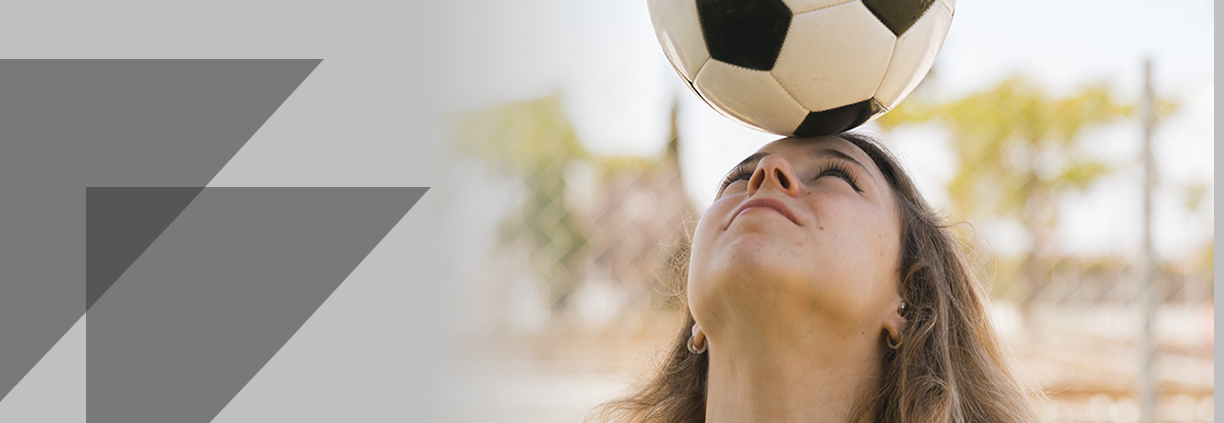
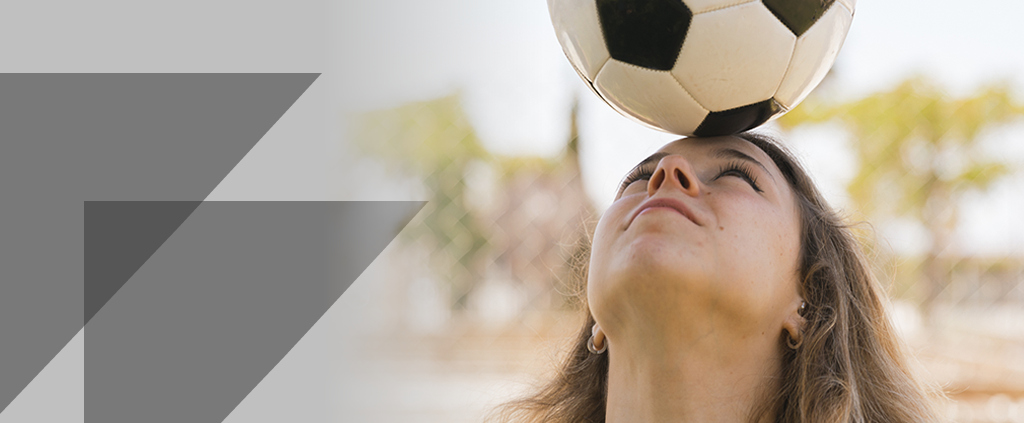
actualizacion general

diff --git a/src/components/common/Result.jsx b/src/components/common/Result.jsx
@@ -41,51 +41,27 @@ const Result = ({ id, name, teams_count, logo, status }) => {
 					l: 6,
 					gl: 4,
 				},
-				{
-					id: 2,
-					name: 'Real Madrid',
-					logo: 'images/realmadrid.svg',
-					ta: 0,
-					tr: 3,
-					l: 7,
-					gl: 2,
-				},
-				{
-					id: 3,
-					name: 'Barcelona',
-					logo: 'images/barcelona.svg',
-					ta: 0,
-					tr: 4,
-					l: 9,
-					gl: 1,
-				},
-				{
-					id: 4,
-					name: 'Villarreal',
-					logo: 'images/villareal.svg',
-					ta: 0,
-					tr: 2,
-					l: 10,
-					gl: 0,
-				},
+		
 			]
 
     const trunName = name.slice(0, 18);
 
+    console.log("torneos",  allTeamsTournament)
+
   return (
-    <div className='py-1 w-full sm:w-[90%] md:w-[45%] px-1 bg-secondary rounded-3xl mb-4 m-2'>
+    <div className='py-5 w-full px-5 sm:w-[90%] md:w-[70%] lg:px-10 bg-secondary rounded-3xl mb-4 m-2 mt-8'>
       {/* Title */}
-      <div className='flex items-center justify-between pt-3 '>
+      <div className='flex items-center justify-between pt-31 py-2'>
        <div className='flex pl-2'>
-        <div className='rounded-full bg-neutral w-[40px] h-[40px] ml-1.5 flex justify-center items-center'>
-          {/* Si el logo del torneo es dinámico,  se puede establecer su src como 'tournamentData.logo' */}
-          <img
-            src={logo==null||logo==''?'icons/trophy.png':logo}
-            alt='Torneo A Logo'
-            className={`${logo == null || logo == '' ? 'w-[25px] h-[25px]' : 'p-0.5 w-[40px] h-[40px] rounded-full'}`}
-          />
-        </div>
-        <h1 className='text-lg font-Sans Pro truncate ml-4'>{trunName}</h1>
+          <div className='rounded-full bg-neutral w-[40px] h-[40px] ml-1.5 flex justify-center items-center'>
+            {/* Si el logo del torneo es dinámico,  se puede establecer su src como 'tournamentData.logo' */}
+            <img
+              src={logo==null||logo==''?'icons/trophy.png':logo}
+              alt='Torneo A Logo'
+              className={`${logo == null || logo == '' ? 'w-[25px] h-[25px]' : 'p-0.5 w-[40px] h-[40px] rounded-full'}`}
+            />
+          </div>
+          <h1 className='text-lg font-Sans Pro truncate ml-4 py-2'>{trunName}</h1>
         </div>
         <p className='text-warning  font-SourceSansPro text-[14px] mt-2 ml-10 pr-2'>
           {startDate}
@@ -96,8 +72,8 @@ const Result = ({ id, name, teams_count, logo, status }) => {
         {/* Table Header */}
         <thead>
           <tr className='text-base-100 text-left'>
-            <th className='p-1.5'>#</th>
-            <th className='p-1.5'>Equipos</th>
+            <th className='p-1.5'></th>
+            <th className='p-1.5'>EQUIPOS</th>
             <th className='p-1.5 border-b border-primary'>TA</th>
             <th className='p-1.5 border-b border-primary'>TR</th>
             <th className='p-1.5 border-b border-primary'>L</th>
@@ -113,13 +89,13 @@ const Result = ({ id, name, teams_count, logo, status }) => {
               <td className='flex flex-row space-x-2 p-1.5 pr-8'>
                 {/* Si los logos de los equipos son dinámicos, puedes establecer su src como 'team.logo' */}
                 <div className='rounded-full bg-neutral w-[40px] h-[40px] ml-1 flex justify-center items-center'>
-				<img
-					className={`${team.logo_url == null || team.logo_url == '' ? 'w-[25px] h-[25px]' : 'p-0.5 w-[40px] h-[40px] rounded-full'}`}
-					src={team.logo_url == null || team.logo_url == '' ? 'icons/trophy.png' : team.logo_url}
-					alt='Real Madrid'
-				/>
-			</div>
-                <div>{team.name}</div>
+                  <img
+                    className={`${team.logo_url == null || team.logo_url == '' ? 'w-[25px] h-[25px]' : 'p-0.5 w-[40px] h-[40px] rounded-full'}`}
+                    src={team.logo_url == null || team.logo_url == '' ? 'icons/trophy.png' : team.logo_url}
+                    alt='Real Madrid'
+                  />
+                  </div>
+                <div className="py-2">{team.name}</div>
               </td>
               <td className='p-1.5 border-b border-primary'>{teams[0].ta}</td>
               <td className='p-1.5 border-b border-primary'>{teams[0].tr}</td>

diff --git a/src/components/modal/Activity.jsx b/src/components/modal/Activity.jsx
@@ -16,7 +16,7 @@ return roleUser
 
 const Tournament = ({ logo, name, role }) => (
 	
-	<div className='w-full bg-secondary rounded-[14px] px-5 flex items-center justify-between py-[13px]'>
+	<div className='w-full bg-secondary rounded-[14px] px-5 flex items-center justify-between py-[13px] lg:w-[70%] lg:m-auto'>
 		<div className='flex items-center gap-[6px]'>
 		<div className='rounded-full bg-neutral w-[40px] h-[40px] flex justify-center items-center'>
 								<img 
@@ -106,13 +106,13 @@ export default function Activity() {
 	};
 
 	return (
-		<section className='pt-[30px] pb-[119px] bg-primary text-base-100'>
+		<section className='pt-[30px] pb-[119px] bg-primary text-base-100 '>
 			{activity?
 				<>
 				<div className='px-[30px]'>
-					<h1 className='font-Roboto font-bold text-[32px]'>Actividad</h1>
-					<div className='flex justify-between mt-[43px]'>
-						<h2 className='font-bold text-[22px] font-Roboto leading-[24.53px] tracking-[0.263px]'>
+					<h1 className='font-Roboto font-bold text-[32px] lg:text-center lg:text-2xl lg:pt-2'>Actividad</h1>
+					<div className='flex justify-between mt-[43px] lg:w-[70%] lg:m-auto	lg:mt-10'>
+						<h2 className='font-bold text-[20px] font-Roboto leading-[24.53px] tracking-[0.263px] '>
 							Torneos Activos
 						</h2>
 						<span onClick={handleCrearTorneo} className='font-bold text-success font-Roboto cursor-pointer'>
@@ -135,7 +135,8 @@ export default function Activity() {
 					</div>
 				</div>
 
-				<img className='mt-[102px]' src='images/divider.svg' alt='Divider' />
+				<div className='bg-[#545458] w-full h-[0.5px] mt-[100px]'>
+			</div>
 
 				<div className='px-[30px] mt-[56.89px]'>
 					<h3 className='font-Roboto font-medium text-[22px] leading-[24.53px] tracking-[0.263px]'>
@@ -143,11 +144,11 @@ export default function Activity() {
 					</h3>
 
 					<div>
-						<div className=' mt-9'>
-							
+						<div className=' mt-9 lg:border lg:border-red-100 lg:rounded-2xl lg:py-5'>
+						<div className="lg:flex lg:justify-center lg:flex-col lg:items-center">
 							{
 								activeTournaments.map((obj, index) => (
-								<div key={index} className='flex items-center gap-[5px]'>
+								<div key={index} className='flex items-center gap-[5px] lg:w-[90%]'>
 									<img src={obj.logo} alt='Logo' className="w-[45px] h-[45px]" />
 									<span className='text-lg font-semibold font-Roboto'>
 									{obj.name}
@@ -155,16 +156,18 @@ export default function Activity() {
 								</div>))
 							}
 
-							<div className=' mt-[25px] flex flex-col gap-3'>
-								<div className='flex flex-col gap-3'>
+							<div className=' mt-[25px] flex flex-col gap-3 lg:w-[90%]'>
+								<div className='flex flex-col gap-3 lg:flex-row lg:w-full'>
 									{nextAdminTournament.map((adminTournament, index) => (
 										<Match key={index} {...adminTournament} />
 									))}
 								</div>
 							</div>
+							</div>
 						</div>
 
-						<div className=' mt-[68px]'>
+							<div className=' mt-[68px] lg:border lg:border-red-100 lg:rounded-2xl lg:py-5'>
+								<div className="lg:flex lg:flex-col lg:w-[90%] lg:m-auto">
 							<div className='flex items-center gap-[5px]'>
 								<img src={activePlayerTournaments[0].logo} alt='Logo' />
 								<span className='text-lg font-semibold font-Roboto'>
@@ -173,12 +176,13 @@ export default function Activity() {
 							</div>
 
 							<div className=' mt-[25px] flex flex-col gap-3'>
-								<div className='flex flex-col gap-3'>
+								<div className='flex flex-col gap-3 lg:w-[49%]'>
 									{nextPlayerTournament.map((playerTournament, index) => (
 										<Match key={index} {...playerTournament} />
 									))}
 								</div>
-							</div>
+								</div>
+								</div>
 						</div>
 					</div>
 				</div>

diff --git a/src/pages/equipos/Equipos.jsx b/src/pages/equipos/Equipos.jsx
@@ -12,20 +12,20 @@ const Equipos = () => {
   };
 
   return (
-    <div className="container mx-auto ">
-      <h1 className="text-3xl font-bold text-center mb-12 pt-4">Equipos</h1>
+    <div className="container mx-auto py-8">
+      <h1 className="text-2xl font-bold text-center mb-12 ">Equipos</h1>
       {/* lista de equipos */}
-      <div className="grid grid-cols-2 md:grid-cols-3 lg:grid-cols-4">
+      <div className="grid grid-cols-2 md:grid-cols-3 lg:grid-cols-4 w-[85%] m-auto">
         {allTeams.map((team) => (
           <div key={team.id} className='bg-secondary w-[170px] h-[180px] flex flex-col items-center justify-center p-8 rounded-[18px]  mb-9 mx-auto  drop-shadow-[3px_3px_2px_rgba(0,0,0,0.5)]'>
             {/* logo del equipo */}
             <img alt={team.name} className={`${team.logo_url == null || team.logo_url == '' ? 'w-[35px] h-[35px] ' : 'p-0.5 w-[40px] h-[40px] rounded-full'}`}
 					src={team.logo_url == null || team.logo_url == '' ? 'icons/trophy.png' : team.logo_url} />
             {/* nombre del equipo */}
-            <h2 className="text-xl font-semibold text-center">{team.name}</h2>
+            <h2 className="font-semibold text-center">{team.name}</h2>
             {/* Botón "Unirme" */}
             <button
-              className='bg-accent text-base-100 px-9 py-2 font-bold rounded-[16px] mt-4 focus:outline-none focus:ring focus:ring-blue-200'
+              className='h-35 bg-accent text-base-100 px-9 py-2 font-bold rounded-[16px] mt-4 focus:outline-none focus:ring focus:ring-blue-200'
               onClick={() => handleJoinTeam(team.id)}
             >
               Unirme

diff --git a/src/components/componentHeader/IconUser.jsx b/src/components/componentHeader/IconUser.jsx
@@ -55,14 +55,15 @@ const IconUser = () => {
 				)}
 			</button>
 			{/* Dropdown para el menú de usuario */}
-			<div
-				className={`absolute top-[80px] right-0  scale-0  w-[50%] bg-secondary  shadow-lg ${isDropdownOpen && isRegister && 'scale-100 '} transition-all ease-in-out duration-500 overflow-hidden `}
-				onClick={handleModalContainerClick}
-			>
+  { isDropdownOpen && isRegister && (
+                <div className='w-full   h-screen absolute top-0 left-0 bg-black/75'
+                    onClick={toggleDropdown}>
+                   <div className='absolute right-0 top-[90px]  w-[50%] bg-secondary  shadow-lg md:w-[20%]' 
+                    onClick={handleModalContainerClick}>
 				<ul className='h-[376px]'>
-					<div className=' w-full  h-[47px] flex justify-start items-center'>
+					<div className=' w-full  md:w-[25%]   h-[47px] flex justify-start items-center lg:w-full'>
 						<FiUser className='h-[20px] w-[20px] mr-[13px] ml-[14px]' />
-						<h3>¡Hola, {userData.first_name}!</h3>
+						<h3 >¡Hola, {userData.first_name}!</h3>
 					</div>
 					<hr className='border-[#545458]' />
 					<li
@@ -104,7 +105,9 @@ const IconUser = () => {
 					<RxExit className='w-[15px] h-[15px] mr-[7px]' />{' '}
 					<div>Cerrar Sesión</div>
 				</button>
-			</div>
+					</div>
+					</div>
+					    )}
 		</>
 	);
 };

diff --git a/src/pages/crear-torneo/CrearTorneo.jsx b/src/pages/crear-torneo/CrearTorneo.jsx
@@ -59,17 +59,17 @@ function CrearTorneo() {
 	}
 
 	return (
-		<div className='m-auto w-[327px] md:w-[400px] space-y-4 text-neutral '>
-			<h2 className='text-[22px] md:text-[32px] text-base-100 mt-1 text-center font-bold'>
+		<div className='m-auto w-[327px] md:w-[400px] space-y-4 text-neutral py-8'>
+			<h2 className='text-2xl text-base-100  text-center font-bold pb-4'>
 				Torneo nuevo
 			</h2>
 			
-			<div className=' flex flex-col items-center  mx-auto w-full '>
+			<div className=' flex flex-col items-center  mx-auto w-full lg:py-4'>
 				
 				<div className='w-[134px] h-[134px] flex items-center rounded-full z-[2] bg-neutral'>
 					<img
 						src={`${imageUrl?imageUrl:'/images/torneo-nuevo.svg'} `}
-						alt='logo tornep'
+						alt='logo torneo'
 						className='mx-auto w-[134px] h-[134px] rounded-full z-0'
 					/>
 				</div>
@@ -181,13 +181,15 @@ function CrearTorneo() {
 								</div>
 							</div>
 						</div>
+						<div className='flex justify-center mt-11'>	
 						<button
 							type='submit'
-							className='bg-accent btn btn-sm border-accent text-base-100 '
+							className='bg-accent rounded-2xl border-accent text-base-100 w-[260px] h-[40px]'
 							disabled={isSubmitting}
 						>
 							Crear torneo
 						</button>
+						</div>
 					</Form>
 				)}
 			</Formik>

diff --git a/src/components/homeComponents/Buttons.jsx b/src/components/homeComponents/Buttons.jsx
@@ -21,13 +21,13 @@ const Buttons = () => {
 			{!isRegister&&<button
 				onClick={handleOpenModal}
 				className='px-6 py-2 rounded-2xl drop-shadow-[3px_3px_2px_rgba(0,0,0,0.5)] font-SourceSansPro text-primary font-semibold bg-accent hover:bg-success transition duration-300 
-				ease-in-out lg:w-[167px] lg:h-[43px] lg:mr-10'
+				ease-in-out lg:w-[167px] lg:h-[43px] lg:mr-20 '
 			>
 				Registrarse
 			</button>}
 			<button
 				onClick={isRegister?handleCrearTorneo:handleOpenModal}
-				className='px-6 py-2 rounded-2xl drop-shadow-[3px_3px_2px_rgba(0,0,0,0.5)] font-SourceSansPro text-base-100 bg-secondary hover:bg-success transition duration-300 ease-in-out lg:w-[167px] lg:h-[43px]'
+				className='px-6 py-2 rounded-2xl drop-shadow-[3px_3px_2px_rgba(0,0,0,0.5)] font-SourceSansPro text-base-100 bg-secondary hover:bg-success transition duration-300 ease-in-out lg:w-[167px] lg:h-[43px] lg:-ml-16'
 			>
 				Crear Torneo
 			</button>

diff --git a/src/App.jsx b/src/App.jsx
@@ -18,8 +18,8 @@ import AdminResult from './pages/adminResultados/AdminResults';
 function App() {
 	return (
 		<BrowserRouter>
-			<div className='text-base-100 h-screen flex flex-col relative z-0 lg:bg-hero lg:bg-[#2F2F42] lg:bg-cover lg:overflow-y-auto'>
-				<div className='lg:w-[1024px] lg:mx-auto bg-white'>
+			<div className='text-base-100 h-screen flex flex-col relative z-0 lg:bg-hero lg:bg-[#2F2F42] lg:bg-cover lg:overflow-y-auto '>
+				<div className='lg:w-[1024px] lg:mx-auto bg-white '>
 					<Header />
 					<main className='bg-primary'>
 						<Routes>

diff --git a/src/pages/torneosAbiertos/TorneosAbiertos.jsx b/src/pages/torneosAbiertos/TorneosAbiertos.jsx
@@ -18,7 +18,7 @@ const TorneosAbiertos = () => {
     return (
         <div className='bg-primary h-full w-full px-8 py-8'>
             <div className='w-full max-w-screen-xl mx-auto'>
-                <h1 className='font-roboto font-bold text-2xl text-center'>Torneos Abiertos</h1>
+                <h1 className='font-roboto font-bold text-2xl text-center  pb-4'>Torneos Abiertos</h1>
 
                 <div className='grid grid-cols-1 md:grid-cols-2 lg:grid-cols-3 gap-6 mt-6 w-full'>
                     {torneosToShow.map((torneo, index) => (

diff --git a/src/components/Header.jsx b/src/components/Header.jsx
@@ -26,7 +26,7 @@ const Navbar = () => {
 				{/* Menú hamburguesa desplegable */}
 				<div
 					onClick={handleModalContainerClick}
-					className={`absolute top-[88px] bg-secondary text-white w-1/2 h-[423px]  ${isOpen ? 'left-0' : '-left-56'} transition-all ease-in-out duration-500`}
+					className={`absolute top-[88px] bg-secondary text-white w-1/2 h-[423px]  ${isOpen ? 'left-0' : '-left-96'} transition-all ease-in-out duration-500`}
 				>
 					<ul className='text-white font-Roboto flex flex-col items-start pt-[47px]  '>
 						<li

diff --git a/src/pages/torneosAbiertos/detalleTorneoAbierto/DetalleTorneoAbierto.jsx b/src/pages/torneosAbiertos/detalleTorneoAbierto/DetalleTorneoAbierto.jsx
@@ -106,7 +106,7 @@ const DetalleTorneoAbierto = () => {
 			<button
 			key={team.id}
 
-				className='bg-secondary w-11/12 md:w-4/5 lg:w-3/5 xl:w-2/5 rounded-2xl h-[47px] overflow-hidden drop-shadow-[3px_3px_2px_rgba(0,0,0,0.5)] mt-8 flex justify-start items-center mb-2 mx-auto'
+				className='bg-secondary px-3 w-11/12 md:w-4/5 lg:w-3/5 xl:w-2/5 rounded-2xl h-[47px] overflow-hidden drop-shadow-[3px_3px_2px_rgba(0,0,0,0.5)] mt-8 flex justify-between items-center mb-2 mx-auto'
 
 			
 

diff --git a/src/pages/resultadosTorneos/ResultadosTorneos.jsx b/src/pages/resultadosTorneos/ResultadosTorneos.jsx
@@ -13,7 +13,7 @@ const ResultadosTorneos = () => {
 	return (
 		<div className='bg-primary h-auto w-full px-[30px] flex flex-col items-center lg:flex-row lg:flex-wrap lg:justify-center gap-x-14'>
 			<div className='w-full lg:w-full'>
-				<h1 className='text-3xl font-roboto text-white text-center py-2'>
+				<h1 className='text-2xl font-roboto font-bold text-white text-center pt-8'>
 					Resultados Torneos
 				</h1>
 			</div>

diff --git a/src/components/homeComponents/Carrousel.jsx b/src/components/homeComponents/Carrousel.jsx
@@ -57,7 +57,7 @@ function Carrousel() {
 							<img
 								src={slide.imageDesktop}
 								alt={`Slide ${index + 1}`}
-								className='w-full h-auto lg:visible'
+								className='w-full h-[423px]  lg:visible'
 							/>
 							<div
 								className='whitespace-pre-line text-roboto font-bold text-[32px] leading-[38px] line-height-[120%] 
